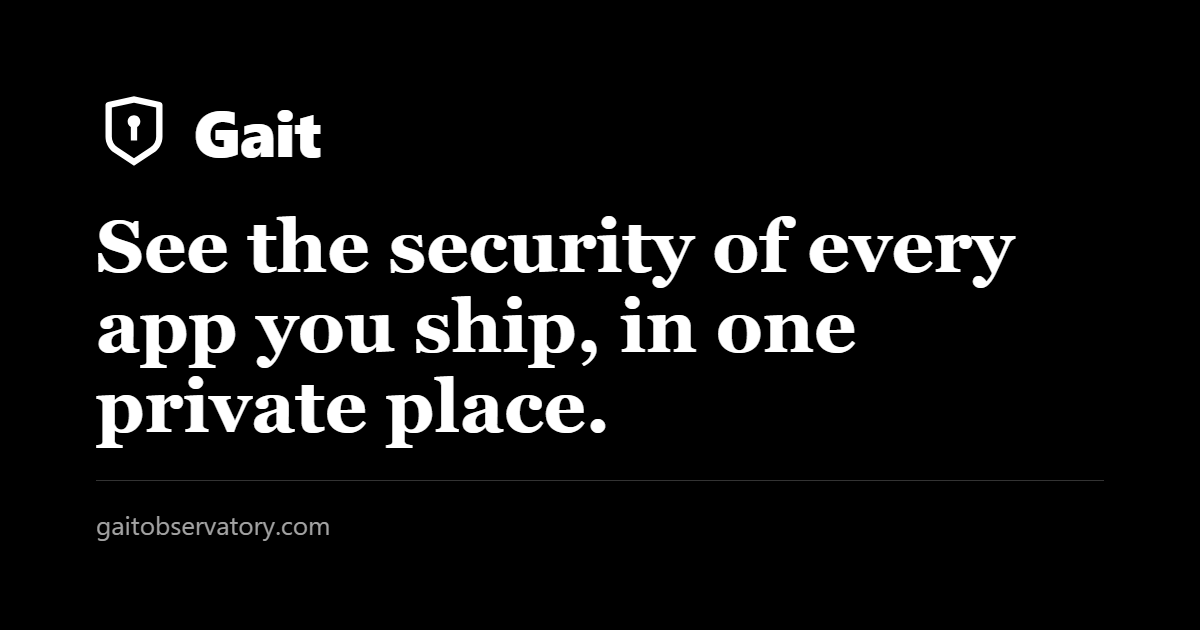
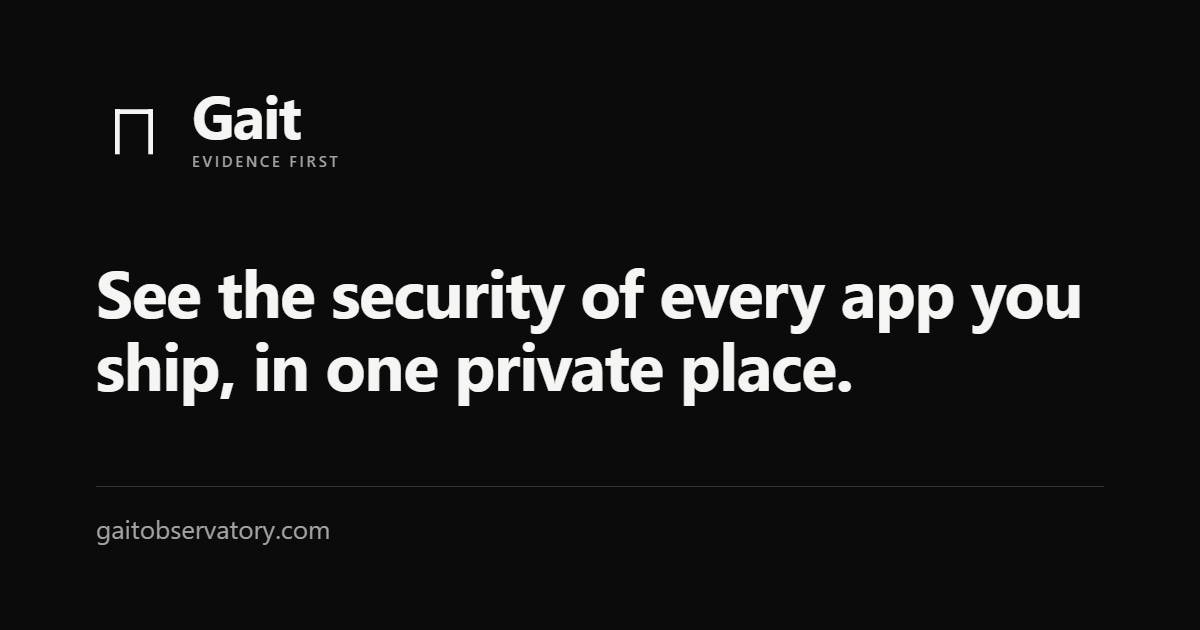
feat(site): replace the shield with the gate mark; add the fifth guarantee
Gate mark (two posts and a lintel, single ink) from the chosen logo system:
- favicon.svg: the 32px favicon tile (#0b0b0c, #f5f5f4 stroke 2.2)
- favicon.ico: regenerated at 16/32/48 from the same tile geometry
- logo192.png / logo512.png: the mark on #0b0b0c
- manifest.json: name "Gait Observatory", short_name "Gait", theme and
  background #0b0b0c, corrected .ico sizes
- og-image.png: re-rendered at 1200x630 with the gate lockup ("Gait" +
  EVIDENCE FIRST), the hero line in the site's sans font, monochrome
- Home nav: inline 16px-grid gate SVG with currentColor stroke

Adds "Everything is recorded" (AUTOMATED_SECURITY_RESPONSE.md line 41) to
the guarantees on the home page.

diff --git a/react-auth/src/components/home/HomePage.jsx b/react-auth/src/components/home/HomePage.jsx
@@ -11,7 +11,6 @@ import {
   RiCloseLine,
   RiMenuLine,
   RiShieldCheckLine,
-  RiShieldKeyholeLine,
   RiTerminalBoxLine,
 } from "react-icons/ri";
 import { AgentFleetDiagram } from "./diagrams/AgentFleetDiagram";
@@ -110,7 +109,7 @@ const WHAT_YOU_GET = [
   },
 ];
 
-// AUTOMATED_SECURITY_RESPONSE.md, "The guarantees" (the first four).
+// AUTOMATED_SECURITY_RESPONSE.md, "The guarantees" (lines 31-41).
 const GAIT_GUARANTEES = [
   {
     title: "A person approves every deployment.",
@@ -128,7 +127,35 @@ const GAIT_GUARANTEES = [
     title: "\"Deployed\" doesn't mean \"fixed\".",
     body: "A problem only counts as resolved when fresh checks show it's healthy again.",
   },
+  {
+    title: "Everything is recorded.",
+    body: "Each step leaves an audit trail.",
+  },
 ];
+
+// The Gait gate mark (16px grid, from the chosen logo system): two posts and a
+// lintel, single ink. currentColor so it follows the surrounding text color.
+function GateMark() {
+  return (
+    <svg
+      className="gate-mark"
+      data-testid="gate-mark"
+      viewBox="0 0 16 16"
+      width="1em"
+      height="1em"
+      fill="none"
+      stroke="currentColor"
+      strokeWidth="1.7"
+      strokeLinecap="square"
+      aria-hidden="true"
+      focusable="false"
+    >
+      <path d="M4.5 13.2V4.6" />
+      <path d="M11.5 13.2V4.6" />
+      <path d="M4.5 4.6h7" />
+    </svg>
+  );
+}
 
 function formatCurrentUser(user) {
   if (!user) {
@@ -167,7 +194,7 @@ function HomePage() {
     <div className="home-page product-home">
       <header className="site-header product-header">
         <a className="brand" href="#product" aria-label="Gait home">
-          <RiShieldKeyholeLine />
+          <GateMark />
           <span>Gait</span>
         </a>
         <button
@@ -366,7 +393,7 @@ function HomePage() {
             <strong>Security Copilot</strong> explains what the team found in plain language. It sits outside the
             chain and can't act on anything.
           </p>
-          <ul className="home-guarantees">
+          <ul className="home-guarantees" aria-label="Guarantees">
             {GAIT_GUARANTEES.map((item) => (
               <li key={item.title}>
                 <strong>{item.title}</strong> {item.body}

diff --git a/react-auth/src/components/home/HomePage.test.jsx b/react-auth/src/components/home/HomePage.test.jsx
@@ -143,6 +143,9 @@ describe("HomePage product positioning", () => {
       (name) => expect(within(section).getAllByText(name).length).toBeGreaterThan(0)
     );
     expect(section).toHaveTextContent("A person approves every deployment.");
+    expect(section).toHaveTextContent("Everything is recorded. Each step leaves an audit trail.");
+    const guarantees = within(section).getByRole("list", { name: "Guarantees" });
+    expect(within(guarantees).getAllByRole("listitem")).toHaveLength(5);
     expect(section).toHaveTextContent("Security Copilot");
   });
 
@@ -162,6 +165,18 @@ describe("HomePage product positioning", () => {
 
     expect(screen.getByText("Built first to secure Lumen, our healthcare reporting app.")).toBeInTheDocument();
     expect(screen.getAllByText(/Lumen/)).toHaveLength(1);
+  });
+
+  test("the header brand uses the single-ink gate mark", () => {
+    renderHome({ isLoggedIn: false, user: null });
+
+    const brand = screen.getByRole("link", { name: "Gait home" });
+    const mark = within(brand).getByTestId("gate-mark");
+    expect(mark).toHaveAttribute("stroke", "currentColor");
+    expect(mark).toHaveAttribute("viewBox", "0 0 16 16");
+    ["M4.5 13.2V4.6", "M11.5 13.2V4.6", "M4.5 4.6h7"].forEach((d) =>
+      expect(mark).toContainHTML(`<path d="${d}"></path>`)
+    );
   });
 
   test("Docs and Developers are in the header, behind a menu button on phones", () => {

diff --git a/react-auth/src/components/home/Home.css b/react-auth/src/components/home/Home.css
@@ -966,3 +966,9 @@ blockquote {
 .final-cta .section-note a {
   color: var(--color-accent);
 }
+
+/* The gate mark follows the text color (single ink), not the accent. */
+.product-home .brand .gate-mark {
+  color: inherit;
+  font-size: 1.2rem;
+}
